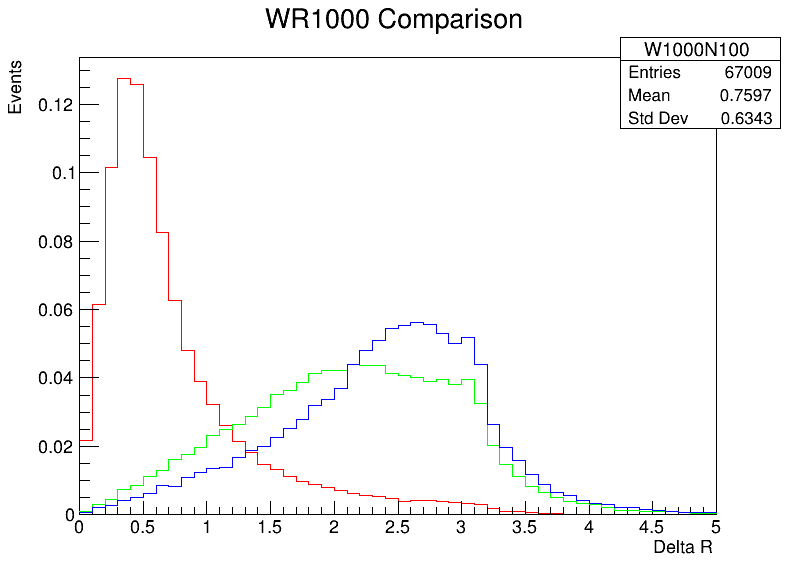
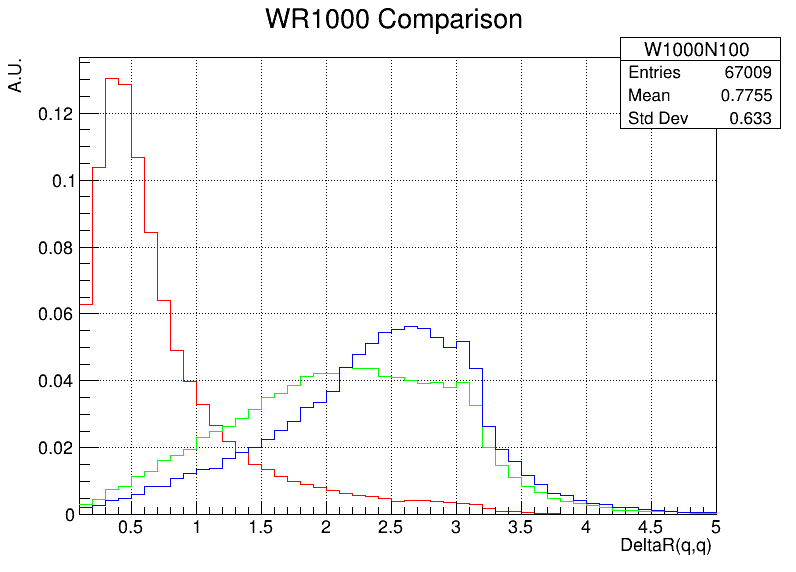
12/23

diff --git a/nano3/CMSSW_10_6_22/src/PhysicsTools/NanoAODTools/python/postprocessing/analyzer/analyzer/DeltaRplot/Merging.py b/nano3/CMSSW_10_6_22/src/PhysicsTools/NanoAODTools/python/postprocessing/analyzer/analyzer/DeltaRplot/Merging.py
@@ -12,6 +12,7 @@ dirW4000N100 = "/data6/Users/snuintern1/nano3/CMSSW_10_6_22/src/PhysicsTools/Nan
 dirW4000N2000 = "/data6/Users/snuintern1/nano3/CMSSW_10_6_22/src/PhysicsTools/NanoAODTools/python/postprocessing/analyzer/analyzer/DeltaRplot/result/WR4000/N2000"
 dirW4000N3900 = "/data6/Users/snuintern1/nano3/CMSSW_10_6_22/src/PhysicsTools/NanoAODTools/python/postprocessing/analyzer/analyzer/DeltaRplot/result/WR4000/N3900"
 
+
 ## 루트 파일 가져오기 
 file_list_W1000N100 = glob.glob(f"{dirW1000N100}/*.root") 
 file_list_W1000N500 = glob.glob(f"{dirW1000N500}/*.root")
@@ -188,22 +189,67 @@ canvas_WR4000 = TCanvas("canvas_WR4000", "WR4000 Comparison", 800, 600)
 
 # 히스토그램 겹쳐 그리기 설정
 def draw_histograms(canvas, hists, title):
+    """
+    canvas   : TCanvas 객체
+    hists    : 그릴 히스토그램 리스트 (예: [hist1, hist2, hist3])
+    title    : 첫 번째 히스토그램에 표시할 Title
+    """
+    # 1) 캔버스 설정
     canvas.cd()
-    legend = TLegend(0.7, 0.7, 0.9, 0.9)
+    canvas.SetGrid(1, 1)  # (X축, Y축) 격자
+    # 필요 시 canvas.Clear() 등으로 초기화 가능
+
+    # 2) 레전드 생성
+    # 위치를 넓게 잡아서 히스토그램이 레전드를 가리지 않도록 함
+    legend = TLegend(0.55, 0.65, 0.88, 0.88)
+    legend.SetTextSize(0.03)
+    legend.SetBorderSize(1)    # 테두리 있음 (0이면 테두리 없음)
+    legend.SetFillStyle(1001)  # 레전드 박스 채우기 (0으로 하면 투명)
+    legend.SetFillColor(kWhite)  # 하얀 배경
+    legend.SetTextColor(kBlack)  # 검정색 글자
+
+    # 3) 히스토그램 Draw 및 레전드 등록
     first_hist = True
-    for hist in hists:
+    for i, hist in enumerate(hists):
+        # (3-1) 히스토그램 그리기
         if first_hist:
-            hist.SetTitle(title)
-            hist.Draw("HIST")  # 첫 번째 히스토그램 그리기
+            hist.SetTitle(title)     # 캔버스 윗부분에 표시될 제목; "X축; Y축" 형식
+            hist.Draw("HIST")        # 첫 히스토그램
             first_hist = False
         else:
-            hist.Draw("HIST SAME")  # 다른 히스토그램 겹쳐서 그리기
-        legend.AddEntry(hist, hist.GetName(), "l")
-    
-    legend.Draw()
-    canvas.Update()
+            hist.Draw("HIST SAME")   # 겹쳐 그리기
 
+        # (3-2) 레전드에 항목 추가 (Draw 후에!)
+        if i == 0:
+            legend.AddEntry(hist, "mN = 100 (GeV)", "l")  # "l" -> 선 스타일
+            
+        elif i == 1:
+            legend.AddEntry(hist, "mN = mWR / 2 (GeV)", "l")
+            
+        elif i == 2:
+            legend.AddEntry(hist, "mN = mWR - 100 (GeV)", "l")
+            
+
+    # 4) 레전드 그리기
+    legend.Draw("SAME")  # "SAME" 옵션으로 캔버스에 겹쳐 그림
+
+    # 5) 캔버스 업데이트
+    canvas.Update()
+    print("Number of legend entries:", legend.GetNRows())
 ## 각 샘플 갯수 다르므로 noramlization
+
+# X축 범위 제한
+combined_W1000N100.GetXaxis().SetRangeUser(0.1, 5)
+combined_W1000N500.GetXaxis().SetRangeUser(0.1, 5)
+combined_W1000N900.GetXaxis().SetRangeUser(0.1, 5)
+
+combined_W2000N100.GetXaxis().SetRangeUser(0.1, 5)
+combined_W2000N1000.GetXaxis().SetRangeUser(0.1, 5)
+combined_W2000N1900.GetXaxis().SetRangeUser(0.1, 5)
+
+combined_W4000N100.GetXaxis().SetRangeUser(0.1, 5)
+combined_W4000N2000.GetXaxis().SetRangeUser(0.1, 5)
+combined_W4000N3900.GetXaxis().SetRangeUser(0.1, 5)
 
 # WR1000 그룹 히스토그램 그리기
 combined_W1000N100.Scale(1/combined_W1000N100.Integral())
@@ -212,8 +258,10 @@ combined_W1000N900.Scale(1/combined_W1000N900.Integral())
 draw_histograms(
     canvas_WR1000, 
     [combined_W1000N100, combined_W1000N500, combined_W1000N900], 
-    "WR1000 Comparison; Delta R; Events"
+    "WR1000 Comparison; DeltaR(q,q); A.U."
 )
+
+
 
 
 combined_W2000N100.Scale(1/combined_W2000N100.Integral())
@@ -223,7 +271,7 @@ combined_W2000N1900.Scale(1/combined_W2000N1900.Integral())
 draw_histograms(
     canvas_WR2000, 
     [combined_W2000N100, combined_W2000N1000, combined_W2000N1900], 
-    "WR2000 Comparison; Delta R; Events"
+    "WR2000 Comparison; DeltaR(q,q); A.U."
 )
 
 
@@ -234,10 +282,13 @@ combined_W4000N3900.Scale(1/combined_W4000N3900.Integral())
 draw_histograms(
     canvas_WR4000, 
     [combined_W4000N100, combined_W4000N2000, combined_W4000N3900], 
-    "WR4000 Comparison; Delta R; Events"
+    "WR4000 Comparison; DeltaR(q,q); A.U."
 )
-
 # 저장 및 출력
+# X축 범위 제한
+
+
+
 
 
 

diff --git a/nano3/CMSSW_10_6_22/src/PhysicsTools/NanoAODTools/python/postprocessing/analyzer/analyzer/DeltaRplot/LHE_R/Merging.py b/nano3/CMSSW_10_6_22/src/PhysicsTools/NanoAODTools/python/postprocessing/analyzer/analyzer/DeltaRplot/LHE_R/Merging.py
@@ -40,6 +40,8 @@ combined_W4000N3900 = TH1F("W4000N3900", "W4000N3900", 50, 0, 5)
 
 
 gStyle.SetHistTopMargin(0.2)  # 히스토그램 위 여백 설정
+gStyle.SetOptStat(0)  # 통계 상자 제거
+
 # 히스토그램 색상 설정
 combined_W1000N100.SetLineColor(kRed)
 combined_W1000N500.SetLineColor(kGreen)
@@ -186,24 +188,59 @@ canvas_WR1000 = TCanvas("canvas_WR1000", "WR1000 Comparison", 800, 600)
 canvas_WR2000 = TCanvas("canvas_WR2000", "WR2000 Comparison", 800, 600)
 canvas_WR4000 = TCanvas("canvas_WR4000", "WR4000 Comparison", 800, 600)
 
+
 # 히스토그램 겹쳐 그리기 설정
 def draw_histograms(canvas, hists, title):
+    """
+    canvas   : TCanvas 객체
+    hists    : 그릴 히스토그램 리스트 (예: [hist1, hist2, hist3])
+    title    : 첫 번째 히스토그램에 표시할 Title
+    """
+    # 1) 캔버스 설정
     canvas.cd()
-    legend = TLegend(0.7, 0.7, 0.9, 0.9)
+    canvas.SetGrid(1, 1)  # (X축, Y축) 격자
+    # 필요 시 canvas.Clear() 등으로 초기화 가능
+
+    # 2) 레전드 생성
+    # 위치를 넓게 잡아서 히스토그램이 레전드를 가리지 않도록 함
+    legend = TLegend(0.55, 0.65, 0.88, 0.88)
+    legend.SetTextSize(0.03)
+    legend.SetBorderSize(1)    # 테두리 있음 (0이면 테두리 없음)
+    legend.SetFillStyle(1001)  # 레전드 박스 채우기 (0으로 하면 투명)
+    legend.SetFillColor(kWhite)  # 하얀 배경
+    legend.SetTextColor(kBlack)  # 검정색 글자
+
+    # 3) 히스토그램 Draw 및 레전드 등록
     first_hist = True
-    for hist in hists:
+    for i, hist in enumerate(hists):
+        # (3-1) 히스토그램 그리기
         if first_hist:
-            hist.SetTitle(title)
-            hist.Draw("HIST")  # 첫 번째 히스토그램 그리기
+            hist.SetTitle(title)     # 캔버스 윗부분에 표시될 제목; "X축; Y축" 형식
+            hist.Draw("HIST")        # 첫 히스토그램
             first_hist = False
         else:
-            hist.Draw("HIST SAME")  # 다른 히스토그램 겹쳐서 그리기
-        legend.AddEntry(hist, hist.GetName(), "l")
-    
-    legend.Draw()
-    canvas.Update()
+            hist.Draw("HIST SAME")   # 겹쳐 그리기
 
+        # (3-2) 레전드에 항목 추가 (Draw 후에!)
+        if i == 0:
+            legend.AddEntry(hist, "mN = 100 (GeV)", "l")  # "l" -> 선 스타일
+            
+        elif i == 1:
+            legend.AddEntry(hist, "mN = mWR / 2 (GeV)", "l")
+            
+        elif i == 2:
+            legend.AddEntry(hist, "mN = mWR - 100 (GeV)", "l")
+            
+
+    # 4) 레전드 그리기
+    legend.Draw("SAME")  # "SAME" 옵션으로 캔버스에 겹쳐 그림
+
+    # 5) 캔버스 업데이트
+    canvas.Update()
+    print("Number of legend entries:", legend.GetNRows())
 ## 각 샘플 갯수 다르므로 noramlization
+
+# X축 범위 제한
 combined_W1000N100.GetXaxis().SetRangeUser(0.1, 5)
 combined_W1000N500.GetXaxis().SetRangeUser(0.1, 5)
 combined_W1000N900.GetXaxis().SetRangeUser(0.1, 5)
@@ -216,7 +253,6 @@ combined_W4000N100.GetXaxis().SetRangeUser(0.1, 5)
 combined_W4000N2000.GetXaxis().SetRangeUser(0.1, 5)
 combined_W4000N3900.GetXaxis().SetRangeUser(0.1, 5)
 
-
 # WR1000 그룹 히스토그램 그리기
 combined_W1000N100.Scale(1/combined_W1000N100.Integral())
 combined_W1000N500.Scale(1/combined_W1000N500.Integral())
@@ -224,8 +260,10 @@ combined_W1000N900.Scale(1/combined_W1000N900.Integral())
 draw_histograms(
     canvas_WR1000, 
     [combined_W1000N100, combined_W1000N500, combined_W1000N900], 
-    "WR1000 Comparison; Delta R; Events"
+    "WR1000 Comparison; DeltaR(q,q); A.U."
 )
+
+
 
 
 combined_W2000N100.Scale(1/combined_W2000N100.Integral())
@@ -235,7 +273,7 @@ combined_W2000N1900.Scale(1/combined_W2000N1900.Integral())
 draw_histograms(
     canvas_WR2000, 
     [combined_W2000N100, combined_W2000N1000, combined_W2000N1900], 
-    "WR2000 Comparison; Delta R; Events"
+    "WR2000 Comparison; DeltaR(q,q); A.U."
 )
 
 
@@ -246,9 +284,8 @@ combined_W4000N3900.Scale(1/combined_W4000N3900.Integral())
 draw_histograms(
     canvas_WR4000, 
     [combined_W4000N100, combined_W4000N2000, combined_W4000N3900], 
-    "WR4000 Comparison; Delta R; Events"
+    "WR4000 Comparison; DeltaR(q,q); A.U."
 )
-
 # 저장 및 출력
 # X축 범위 제한
 

diff --git a/nano3/CMSSW_10_6_22/src/PhysicsTools/NanoAODTools/python/postprocessing/analyzer/analyzer/DeltaRplot/result2/Merging.py b/nano3/CMSSW_10_6_22/src/PhysicsTools/NanoAODTools/python/postprocessing/analyzer/analyzer/DeltaRplot/result2/Merging.py
@@ -188,22 +188,67 @@ canvas_WR4000 = TCanvas("canvas_WR4000", "WR4000 Comparison", 800, 600)
 
 # 히스토그램 겹쳐 그리기 설정
 def draw_histograms(canvas, hists, title):
+    """
+    canvas   : TCanvas 객체
+    hists    : 그릴 히스토그램 리스트 (예: [hist1, hist2, hist3])
+    title    : 첫 번째 히스토그램에 표시할 Title
+    """
+    # 1) 캔버스 설정
     canvas.cd()
-    legend = TLegend(0.7, 0.7, 0.9, 0.9)
+    canvas.SetGrid(1, 1)  # (X축, Y축) 격자
+    # 필요 시 canvas.Clear() 등으로 초기화 가능
+
+    # 2) 레전드 생성
+    # 위치를 넓게 잡아서 히스토그램이 레전드를 가리지 않도록 함
+    legend = TLegend(0.55, 0.65, 0.88, 0.88)
+    legend.SetTextSize(0.03)
+    legend.SetBorderSize(1)    # 테두리 있음 (0이면 테두리 없음)
+    legend.SetFillStyle(1001)  # 레전드 박스 채우기 (0으로 하면 투명)
+    legend.SetFillColor(kWhite)  # 하얀 배경
+    legend.SetTextColor(kBlack)  # 검정색 글자
+
+    # 3) 히스토그램 Draw 및 레전드 등록
     first_hist = True
-    for hist in hists:
+    for i, hist in enumerate(hists):
+        # (3-1) 히스토그램 그리기
         if first_hist:
-            hist.SetTitle(title)
-            hist.Draw("HIST")  # 첫 번째 히스토그램 그리기
+            hist.SetTitle(title)     # 캔버스 윗부분에 표시될 제목; "X축; Y축" 형식
+            hist.Draw("HIST")        # 첫 히스토그램
             first_hist = False
         else:
-            hist.Draw("HIST SAME")  # 다른 히스토그램 겹쳐서 그리기
-        legend.AddEntry(hist, hist.GetName(), "l")
-    
-    legend.Draw()
-    canvas.Update()
+            hist.Draw("HIST SAME")   # 겹쳐 그리기
 
+        # (3-2) 레전드에 항목 추가 (Draw 후에!)
+        if i == 0:
+            legend.AddEntry(hist, "mN = 100 (GeV)", "l")  # "l" -> 선 스타일
+            
+        elif i == 1:
+            legend.AddEntry(hist, "mN = mWR / 2 (GeV)", "l")
+            
+        elif i == 2:
+            legend.AddEntry(hist, "mN = mWR - 100 (GeV)", "l")
+            
+
+    # 4) 레전드 그리기
+    legend.Draw("SAME")  # "SAME" 옵션으로 캔버스에 겹쳐 그림
+
+    # 5) 캔버스 업데이트
+    canvas.Update()
+    print("Number of legend entries:", legend.GetNRows())
 ## 각 샘플 갯수 다르므로 noramlization
+
+# X축 범위 제한
+combined_W1000N100.GetXaxis().SetRangeUser(0.1, 5)
+combined_W1000N500.GetXaxis().SetRangeUser(0.1, 5)
+combined_W1000N900.GetXaxis().SetRangeUser(0.1, 5)
+
+combined_W2000N100.GetXaxis().SetRangeUser(0.1, 5)
+combined_W2000N1000.GetXaxis().SetRangeUser(0.1, 5)
+combined_W2000N1900.GetXaxis().SetRangeUser(0.1, 5)
+
+combined_W4000N100.GetXaxis().SetRangeUser(0.1, 5)
+combined_W4000N2000.GetXaxis().SetRangeUser(0.1, 5)
+combined_W4000N3900.GetXaxis().SetRangeUser(0.1, 5)
 
 # WR1000 그룹 히스토그램 그리기
 combined_W1000N100.Scale(1/combined_W1000N100.Integral())
@@ -212,8 +257,10 @@ combined_W1000N900.Scale(1/combined_W1000N900.Integral())
 draw_histograms(
     canvas_WR1000, 
     [combined_W1000N100, combined_W1000N500, combined_W1000N900], 
-    "WR1000 Comparison; Delta R; Events"
+    "WR1000 Comparison; DeltaR(q,q); A.U."
 )
+
+
 
 
 combined_W2000N100.Scale(1/combined_W2000N100.Integral())
@@ -223,7 +270,7 @@ combined_W2000N1900.Scale(1/combined_W2000N1900.Integral())
 draw_histograms(
     canvas_WR2000, 
     [combined_W2000N100, combined_W2000N1000, combined_W2000N1900], 
-    "WR2000 Comparison; Delta R; Events"
+    "WR2000 Comparison; DeltaR(q,q); A.U."
 )
 
 
@@ -234,10 +281,13 @@ combined_W4000N3900.Scale(1/combined_W4000N3900.Integral())
 draw_histograms(
     canvas_WR4000, 
     [combined_W4000N100, combined_W4000N2000, combined_W4000N3900], 
-    "WR4000 Comparison; Delta R; Events"
+    "WR4000 Comparison; DeltaR(q,q); A.U."
 )
-
 # 저장 및 출력
+# X축 범위 제한
+
+
+
 
 
 
